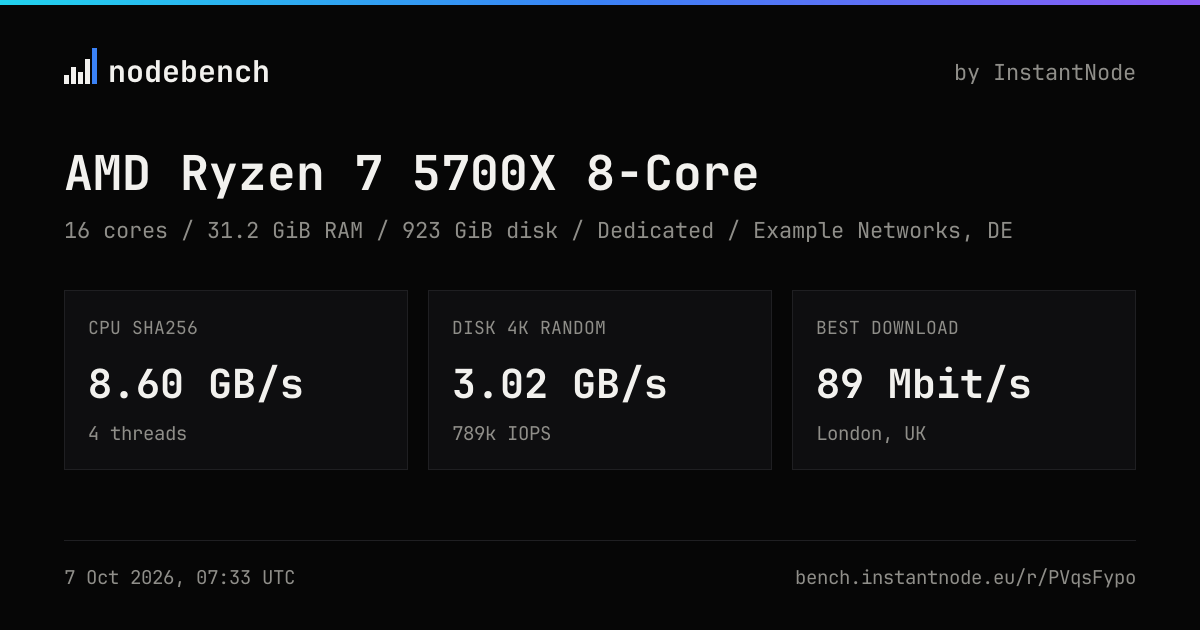
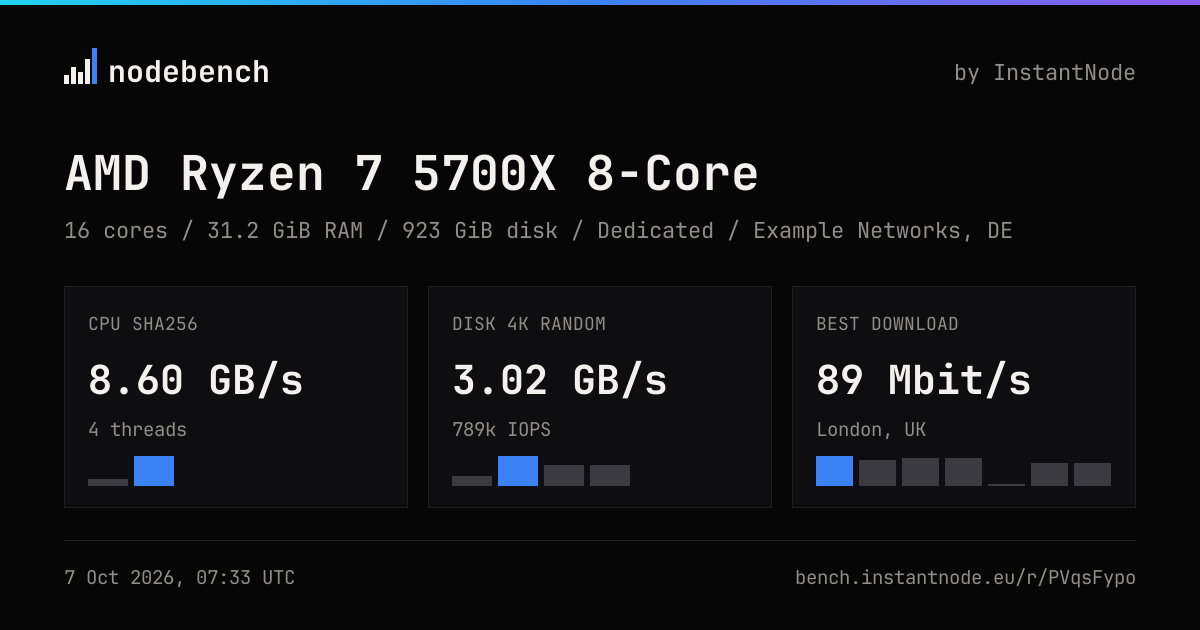
readme: leaderboard, privacy, new screenshots

diff --git a/README.md b/README.md
@@ -37,10 +37,21 @@ curl -sL https://bench.instantnode.eu | bash -s -- -n --no-share
 | `-d DIR` | directory for the disk test file (default: current dir) |
 | `-S SIZE` | size of the disk test file, e.g. `512M` (default: `2G`) |
 | `-t N` | threads for the multi-core cpu test (default: all cores) |
+| `-L [NAME]` | put the result on the [leaderboard](https://bench.instantnode.eu/leaderboard), optionally under NAME |
 | `--no-share` | don't upload the result |
 | `--json` | only print the result as json, the share link goes to stderr |
 
 The test durations can be shortened with `NODEBENCH_FIO_TIME`, `NODEBENCH_IPERF_TIME` and `NODEBENCH_CPU_TIME` (seconds), which is handy on slow links or when you just want a quick look.
+
+## Leaderboard
+
+Results only go on the public leaderboard if you pass `-L`, optionally with a name (up to 32 characters, no links):
+
+```
+curl -sL https://bench.instantnode.eu | bash -s -- -L "fra-edge-01"
+```
+
+Without a name the provider name is shown. Only the best run per name, CPU model and network is listed, and results with numbers no real machine produces are kept as links but never ranked.
 
 ## Sharing
 
@@ -50,7 +61,7 @@ At the end the result is posted to the share server and you get a link like `htt
 
 <p align="center"><img src="assets/card.png" alt="preview image" width="600"></p>
 
-What gets uploaded is exactly what `--json` prints. Your IP address is not part of it and the server doesn't log it. Use `--no-share` if you don't want a link at all. Results are public to anyone who has the link.
+What gets uploaded is exactly what `--json` prints. Your IP address is not part of it and the server doesn't log it. The provider, ASN and country are shown, the city is not: older versions of the script sent it, the server drops it on upload and when serving old results. Use `--no-share` if you don't want a link at all. Results are public to anyone who has the link.
 
 ## Running your own share server
 
@@ -77,7 +88,10 @@ docker run -d -p 8080:8080 -v nodebench:/data -e NODEBENCH_BASE=https://bench.ex
 | `-script` | `NODEBENCH_SCRIPT` | `../nodebench.sh` | script served to curl and wget on `/` |
 | `-proxy` | `NODEBENCH_PROXY` | off | trust `X-Forwarded-For`, only behind a reverse proxy |
 | `-rate` | | `20` | uploads per IP per hour |
-| `-example` | `NODEBENCH_EXAMPLE` | | result id the landing page links to as an example |
+| `-example` | `NODEBENCH_EXAMPLE` | | result shown with its charts on the home page |
+| | `NODEBENCH_ADMIN_TOKEN` | | enables `POST /api/results/<id>/hide` to take a result off the leaderboard |
+
+The leaderboard is kept in memory and rebuilt from the JSON files on start. Hidden results are listed in `hidden.txt` in the data directory.
 
 `/` serves the script itself when the client is curl or wget, everyone else gets a small landing page. A systemd unit is in `deploy/`. Point the script at your server with `NODEBENCH_URL=https://bench.example.com`.
 
